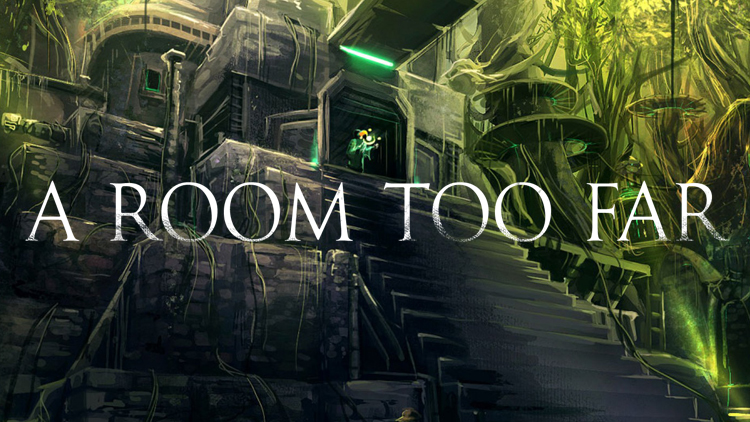
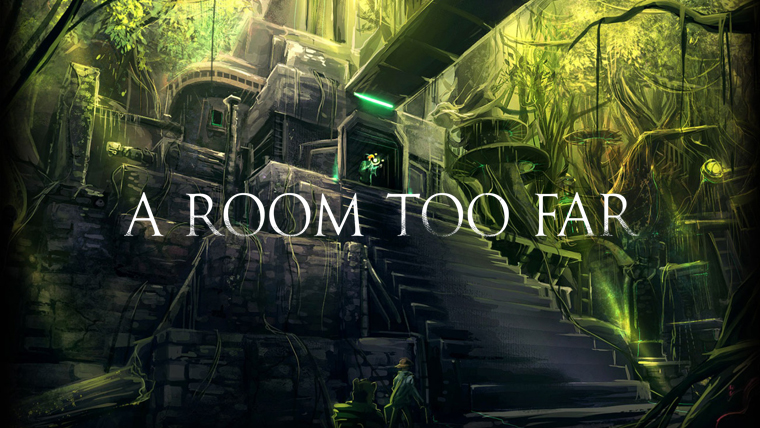
Finished responsive design

diff --git a/index.html b/index.html
@@ -42,7 +42,7 @@
 
     	b {
     		font-weight: bold;
-    		color: #27ae60;
+    		color: #2ecc71;
     	}
 
     	#cover {
@@ -70,7 +70,7 @@
     	}
 
     	#footer {
-    		width: 730px;
+    		width: 720px;
     		margin: 0 auto;
     		padding: 10px;
     		font-size: 0.9em;
@@ -79,11 +79,56 @@
 
     	@media (max-width: 1460px) {
     		#bgwrap {
-    			margin-top: -140px;
+    			margin-top: -150px;
     		}
 
     		#content {
     			max-width: 800px;
+    		}
+    	}
+
+    	@media (max-width: 1200px) {
+    		#bgwrap {
+    			margin-top: -160px;
+    		}
+
+    		#content {
+    			max-width: 600px;
+    			padding-top: 90px;
+    		}
+    	}
+
+    	@media (max-width: 750px) {
+			#bgwrap {
+    			margin-top: -180px;
+    		}
+
+    		#cover {
+    			background: #ccc url('img/cover-md.jpg') no-repeat center center;
+    		}
+    	}
+
+    	@media (max-width: 600px) {
+			#bgwrap {
+    			margin-top: -250px;
+    		}
+
+    		#cover {
+    			background: #ccc url('img/cover-md-2.jpg') no-repeat center center;
+    		}
+    	}
+
+    	@media (max-width: 420px) {
+			#bgwrap {
+    			margin-top: -350px;
+    		}
+
+    		#content {
+    			padding-top: 90px;
+    		}
+
+    		#cover {
+    			background: #ccc url('img/cover-sm.jpg') no-repeat center center;
     		}
     	}
 
@@ -159,16 +204,16 @@
 				<li>A <b>Sound Director</b> who can unify and guide the sound direction for the game.</li>
 				<li><b>Technical Artists</b> with 3D modeling, animation or lighting skills.</li>
 				<li><b>Concept Artists</b> for environmental and character concept development.</li>
-				<li><b>Graphic Designers</b> for website and in-game user interfaces.</li>
+				<li><b>Graphic Designers</b> for the website and in-game user interfaces.</li>
 				<li><b>Musicians</b> who can create music and enhance the atmosphere of the game.</li>
 				<li><b>Sound Engineers</b> who can produce sound effects for the game.</li>
 			</ul>
 			<p>Students can earn credits through independent study while working on our project!</p>
 			<h1>Interested?</h1>
-			<p>For more information please contact us at: contact@aroomtoofar.com</p>
+			<p>For more information please contact us at: <b>contact@aroomtoofar.com</b></p>
 		</div>
 		<div id="footer">
-			&copy; 2014 A Room Too Far. Banner art found from Google Images... in the future we could be using your art instead!
+			2014 A Room Too Far. Banner art found from Google Images... in the future we could be using your art instead!
 		</div>
 	</div>
   </body>
